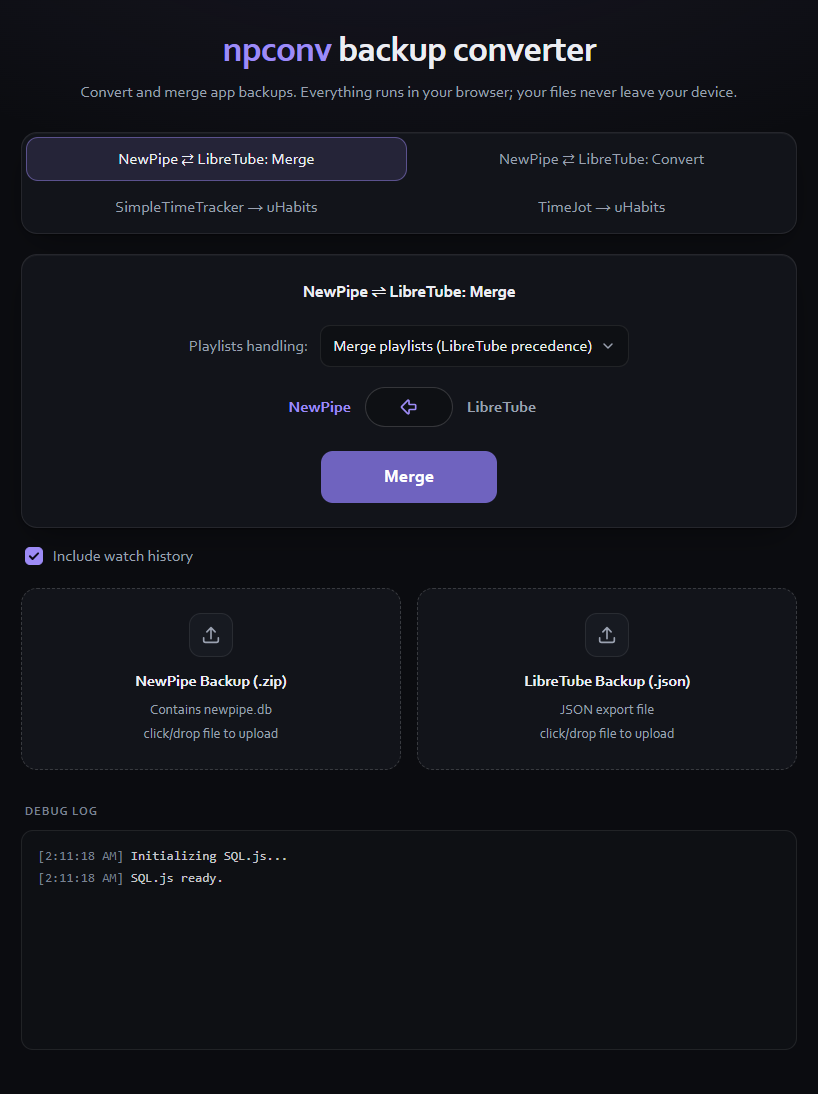
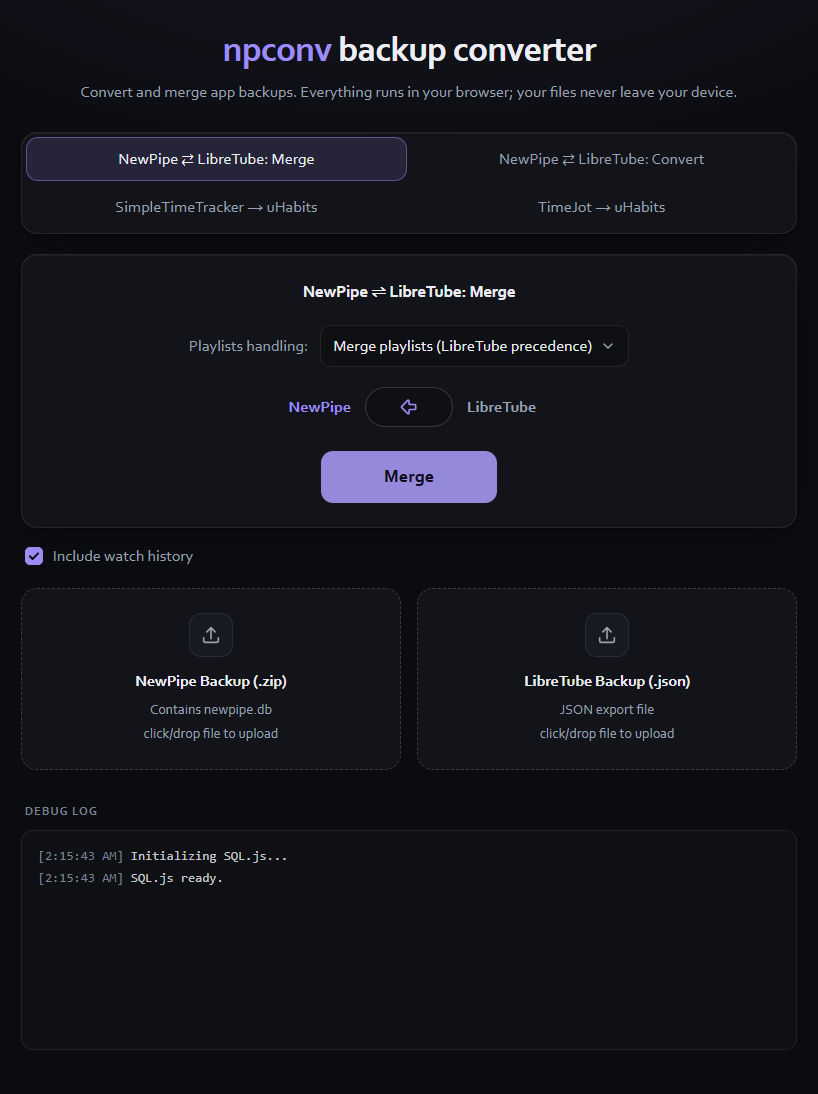
Use dark text on a calmer violet for primary buttons
Back to dark text (contrast ~6.4:1) on a less saturated violet than the
original accent, keeping the larger, bolder 18px label.
Refresh README screenshots.

Changed region(s): [[0.3973, 0.404, 0.6112, 0.4662], [0.0917, 0.777, 0.1222, 0.808]]

diff --git a/style.css b/style.css
@@ -17,11 +17,11 @@
 	--text-faint: #7a8191;
 
 	--primary: #9d8bf6;
-	/* Primary action buttons use a deeper, calmer violet than the accent */
-	--btn: #6f63bf;
-	--btn-hover: #7d72cc;
-	--btn-press: #6256ae;
-	--on-btn: #fff;
+	/* Primary action buttons use a calmer violet than the accent, with dark text */
+	--btn: #9489da;
+	--btn-hover: #a398e4;
+	--btn-press: #8479c8;
+	--on-btn: #0d0b1a;
 	--secondary: #2dd4bf;
 	--error: #f08a9b;
 	--warn: #f2c46d;
